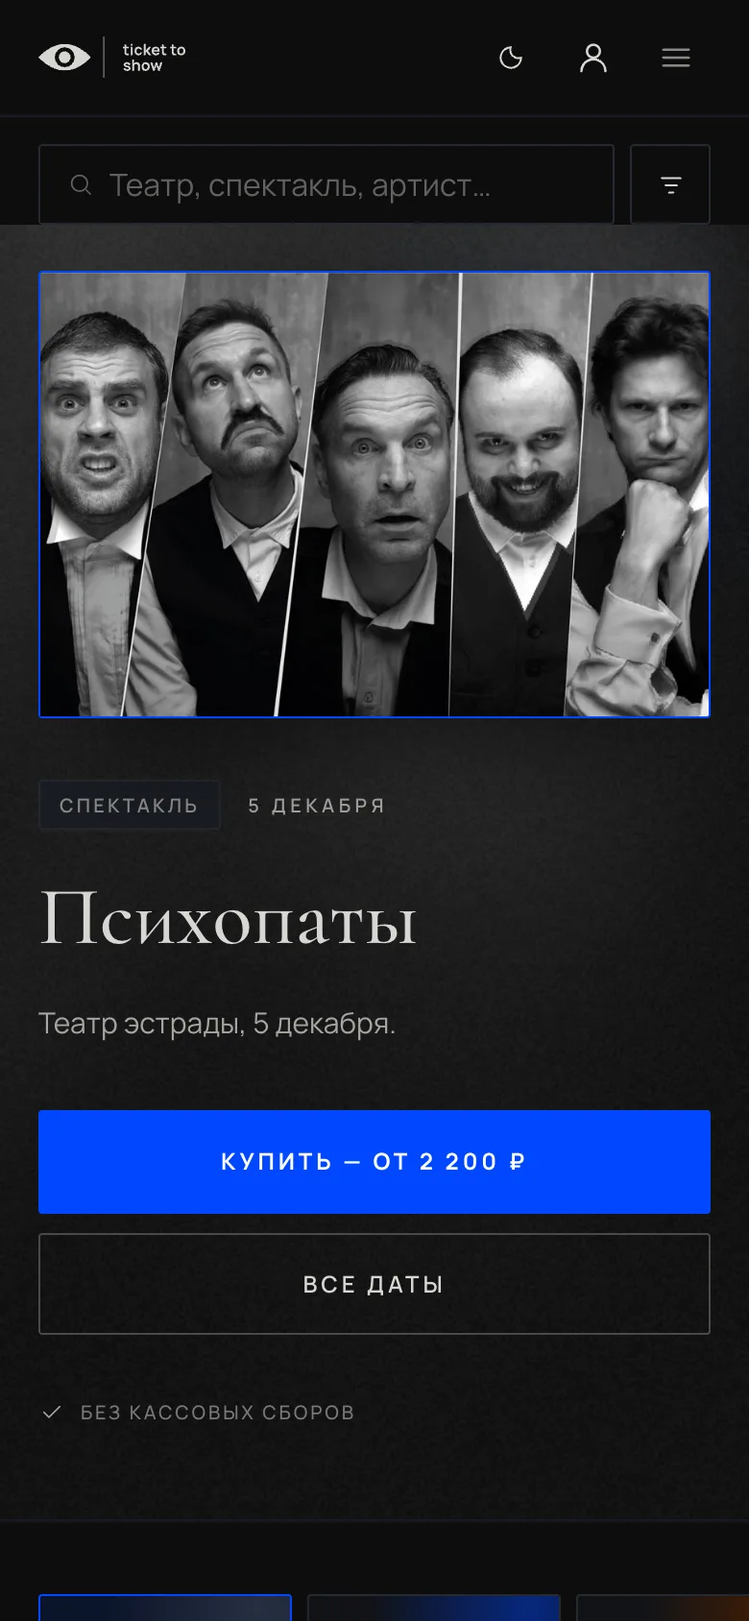
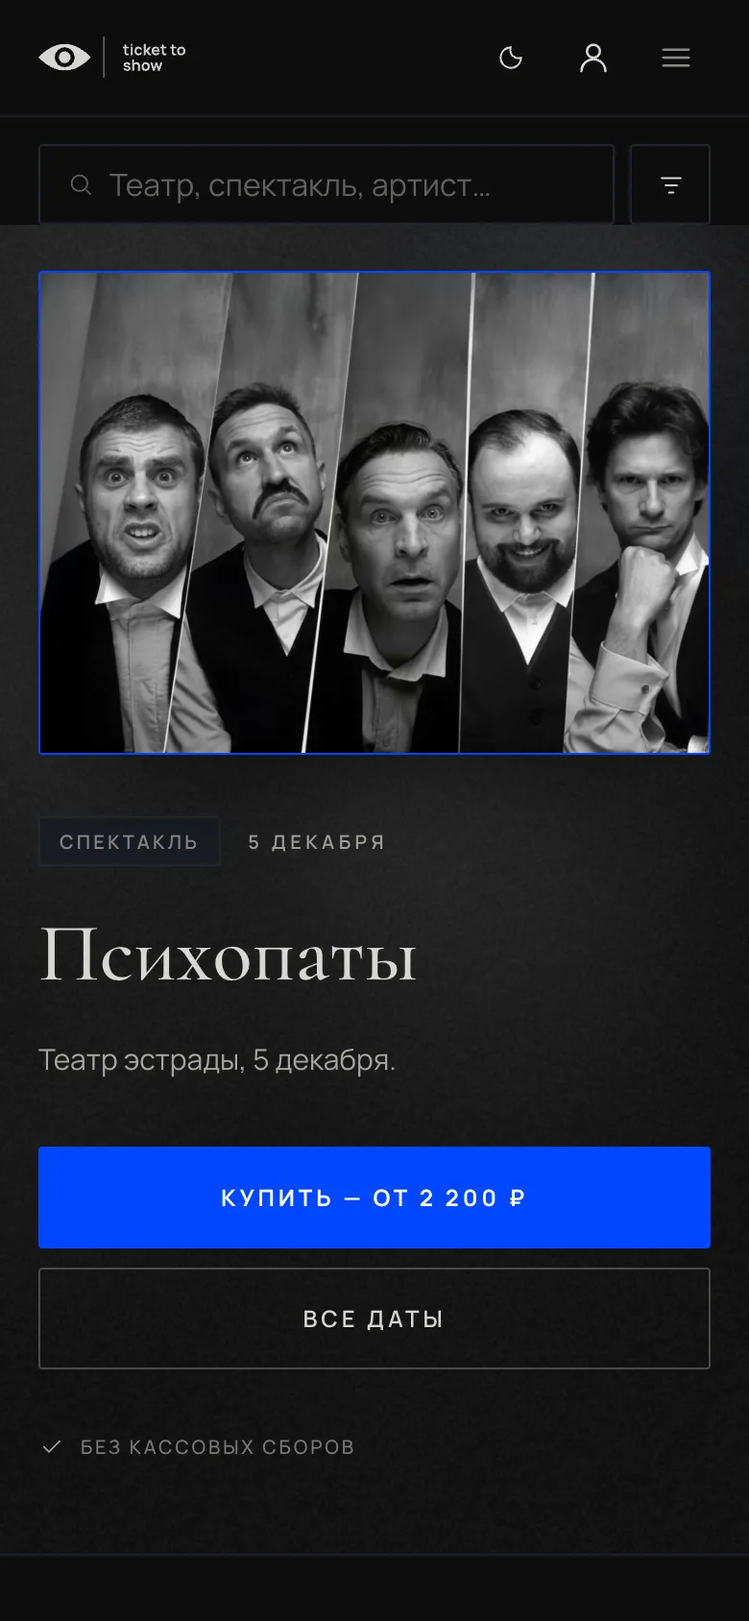
feat(site): home poster is the full Psychopaths photo; plain genre tiles variant with "All ↓"; venues keep only C and D
- Home hero uses the supplied 1600×1152 Psychopaths frame (no crop vars), poster and intro deck take its 25:18 ratio
- New home variant D "Без подписей": four genre tiles with name and arrow, light-grey "Все ↓" at the end
- Venues demo: list variants A and B removed, C and D remain
- All home, intro, venue phone and iOS input-zoom shots re-taken with the new photo; stand-fixes P1, P2, P4, Р4 texts updated

diff --git a/site/handoff/stand-fixes/index.html b/site/handoff/stand-fixes/index.html
@@ -292,7 +292,7 @@
         <tr><td class="sid"><a href="#r1">Р1</a></td><td>Главная</td><td class="sw">Календарь</td><td>дни без событий не выбираются, неделя листается свайпом, кнопка месяца открывает весь месяц</td><td><span class="st st-ok">Макет готов</span></td></tr>
         <tr><td class="sid"><a href="#r2">Р2</a></td><td>Выбор мест</td><td class="sw">Цвета цен и фильтр<span class="new">New</span></td><td>балкон розово-малиновый вместо зелёного; фильтр по цене; большой зал — семьи цветов (выбраны), легенда — три варианта на выбор</td><td><span class="st st-pick">На выбор</span></td></tr>
         <tr><td class="sid"><a href="#r3">Р3</a></td><td>Главная · десктоп</td><td class="sw">Плитки категорий</td><td>цвет виден всегда; подъём плитки или движение стрелки</td><td><span class="st st-pick">На выбор</span></td></tr>
-        <tr><td class="sid"><a href="#r4">Р4</a></td><td>Площадки</td><td class="sw">Список площадок</td><td>крупные плитки и фильтр по типу; запасные — список, группы, список с картой</td><td><span class="st st-pick">На выбор</span></td></tr>
+        <tr><td class="sid"><a href="#r4">Р4</a></td><td>Площадки</td><td class="sw">Список площадок</td><td>крупные плитки и фильтр по типу; запасной — список с картой</td><td><span class="st st-pick">На выбор</span></td></tr>
         <tr><td class="sid"><a href="#r7">Р5</a></td><td>Событие</td><td class="sw">Афиша события</td><td>во всю ширину и складывается в миниатюру при прокрутке (D); запасной — A</td><td><span class="st st-pick">На выбор</span></td></tr>
         <tr><td class="sid"><a href="#r8">Р8</a></td><td>Карточка афиши · везде</td><td class="sw">Ценз вместо города<span class="new">New</span></td><td>строка над названием — «Спектакль · 16+», ценз тише жанра; города на карточке нет</td><td><span class="st st-ok">Макет готов</span></td></tr>
         <tr class="grp"><td colspan="5">Низкий приоритет</td></tr>
@@ -300,7 +300,7 @@
         <tr><td class="sid"><a href="#r6">Р7</a></td><td>Шапка</td><td class="sw">Отзывы</td><td>отзывы на сайте вместо перехода в Яндекс Карты</td><td><span class="st st-low">Низкий</span></td></tr>
         <tr class="grp"><td colspan="5">Предложение</td></tr>
         <tr><td class="sid"><a href="#p1">П1</a></td><td>Главная</td><td class="sw">Новая главная и заставка</td><td>заставка-прелоадер с колодой афиш, новый первый экран, календарь</td><td><span class="st st-pick">Предложение</span></td></tr>
-        <tr><td class="sid"><a href="#p2">П2</a></td><td>Главная</td><td class="sw">Категории и первый экран<span class="new">New</span></td><td>чипы, пять плиток или первый экран на всю высоту с плитками после него</td><td><span class="st st-pick">На выбор</span></td></tr>
+        <tr><td class="sid"><a href="#p2">П2</a></td><td>Главная</td><td class="sw">Категории и первый экран<span class="new">New</span></td><td>чипы, пять плиток, четыре плитки без подписей или первый экран на всю высоту с плитками после него</td><td><span class="st st-pick">На выбор</span></td></tr>
         <tr><td class="sid"><a href="#p3">П3</a></td><td>Карточка афиши</td><td class="sw">«В избранное»<span class="new">New</span></td><td>сердечко на обложке — сохранить событие прямо из афиши</td><td><span class="st st-pick">На выбор</span></td></tr>
         <tr><td class="sid"><a href="#p4">П4</a></td><td>Главная · телефон</td><td class="sw">Афиша на первом экране<span class="new">New</span></td><td>афиша целиком, карточкой над заголовком, а не фоном под текстом — видна в обеих темах</td><td><span class="st st-ok">Макет готов</span></td></tr>
       </table>
@@ -547,7 +547,7 @@
     <article class="chg" id="r4">
       <div class="chg-h"><div class="chg-id">Р4</div><div class="chg-t"><h3>Площадки: список без перегруза</h3><div class="where">Площадки — список · демо <code>site/venues-variants-demo.html</code></div></div><span class="st st-pick">На выбор</span></div>
       <div class="live"><a href="../../venues-variants-demo.html">Живой макет ↗</a><a class="gh" href="https://github.com/hitch-npc/tts-design-system/issues/9">Обсудить и проголосовать · #9 ↗</a></div>
-      <p class="note">Четыре варианта на одних данных: 12 площадок из карусели прода, как в утверждённом стенде 21 октября. D — самый простой: крупные плитки и одна строка фильтра по типу. В A–C есть ещё поиск по названию и адресу.</p>
+      <p class="note">Два варианта на одних данных: 12 площадок из карусели прода, как в утверждённом стенде 21 октября. D — самый простой: крупные плитки и одна строка фильтра по типу. В C есть ещё поиск по названию и адресу и карта.</p>
       <div class="shots wide">
         <div class="col"><span class="lbl lbl-new">D · Крупные плитки · наведение на первую</span><figure class="shot"><img src="img/ven-d-desk.webp" width="1100" height="773" alt="Площадки крупными плитками по три в ряд: логотип, название, адрес, число событий; над сеткой чипы типов" loading="lazy"></figure></div>
       </div>
@@ -560,19 +560,14 @@
       <table class="spec">
         <tr><th>Что</th><th>Сейчас</th><th>Предложение</th></tr>
         <tr><td class="p">D · Крупные плитки</td><td class="o" data-h="Сейчас">сетка плиток, много деталей</td><td class="n" data-h="Предложение">по три плитки в ряд, на телефоне — одна; в плитке только логотип, название, адрес и «N событий»; тип не пишется — он в фильтре. Наведение: движение — как на стенде площадок (21.10): блоб растёт из 85 % до 100 % и проявляется за 320 мс <code>cubic-bezier(.4,0,.2,1)</code>, стрелка <code>--n100</code> сдвигается на 2 px и увеличивается в 1,25 за 200 мс, рамка <code>--n600</code> за 120 мс. Вид — мягче: овал снизу плитки, размытие 40 px, прозрачность 0,7. Площадки без анонсов — в конце, название серым</td></tr>
-        <tr><td class="p">Поиск · A–C</td><td class="o" data-h="Сейчас">нет</td><td class="n" data-h="Предложение">«Найти площадку или адрес»; на телефоне текст 16 px, без увеличения страницы (<a href="#b4">Б4</a>)</td></tr>
+        <tr><td class="p">Поиск · C</td><td class="o" data-h="Сейчас">нет</td><td class="n" data-h="Предложение">«Найти площадку или адрес»; на телефоне текст 16 px, без увеличения страницы (<a href="#b4">Б4</a>)</td></tr>
         <tr><td class="p">Фильтр по типу</td><td class="o" data-h="Сейчас">нет</td><td class="n" data-h="Предложение">одна строка чипов «Все 12», «Театры 7», «Концертные залы 5»; на телефоне листается свайпом</td></tr>
-        <tr><td class="p">A · Компактный список</td><td class="o" data-h="Сейчас">сетка крупных плиток</td><td class="n" data-h="Предложение">одна строка на площадку: логотип, название, тип и адрес, справа число событий; сначала площадки с событиями, без анонсов свёрнуты в «Ещё 2 площадки без анонсов»</td></tr>
-        <tr><td class="p">B · Группы по типу</td><td class="o" data-h="Сейчас">—</td><td class="n" data-h="Предложение">заголовки «Театры» и «Концертные залы», внутри — компактные карточки по три в ряд</td></tr>
         <tr><td class="p">C · Список и карта</td><td class="o" data-h="Сейчас">—</td><td class="n" data-h="Предложение">список слева, Яндекс Карта с метками справа; наведение на строку подсвечивает метку; на телефоне — переключатель «Список / Карта». В демо вместо карты заглушка</td></tr>
       </table>
       <div class="shots">
-        <div class="col"><span class="lbl lbl-new">A · Компактный список</span><figure class="shot"><img src="img/ven-a-desk.webp" width="1100" height="653" alt="Список площадок строками: поиск, чипы типов, название, адрес, число событий справа" loading="lazy"></figure></div>
-        <div class="col"><span class="lbl lbl-new">B · Группы по типу</span><figure class="shot"><img src="img/ven-b-desk.webp" width="1100" height="730" alt="Площадки сгруппированы: Театры и Концертные залы — карточки по три в ряд" loading="lazy"></figure></div>
         <div class="col"><span class="lbl lbl-new">C · Список и карта</span><figure class="shot"><img src="img/ven-c-desk.webp" width="1100" height="653" alt="Список площадок слева, место для карты справа; строка под курсором подсвечена" loading="lazy"></figure></div>
       </div>
       <div class="shots phones">
-        <div class="col"><span class="lbl lbl-new">A · телефон</span><figure class="shot"><img src="img/ven-a-phone.webp" width="520" height="885" alt="Компактный список площадок на телефоне" loading="lazy"></figure></div>
         <div class="col"><span class="lbl lbl-new">C · телефон, карта</span><figure class="shot"><img src="img/ven-c-phone.webp" width="520" height="885" alt="Переключатель «Список / Карта» на телефоне, открыта карта" loading="lazy"></figure></div>
       </div>
     </article>
@@ -792,10 +787,10 @@
         <tr><td class="p">Когда играет</td><td class="o" data-h="Сейчас">—</td><td class="n" data-h="Предложение">первый визит — длинная версия, около 5 с; новый визит — около 3 с, идёт за реальной загрузкой; повторные загрузки в той же вкладке — без заставки. После заставки страница стоит в самом верху</td></tr>
         <tr><td class="p">Первый экран</td><td class="o" data-h="Сейчас">—</td><td class="n" data-h="Предложение">постер события, название, площадка и дата, «Купить — от … ₽» и «Все даты»; ниже — чипы категорий и календарь. Постер — в пропорциях афиши (чаще горизонтальной), подробно — <a href="#p4">П4</a></td></tr>
         <tr><td class="p">Для фронтенда</td><td class="o" data-h="Сейчас">—</td><td class="n" data-h="Предложение">заставка — один файл <code>tts-intro.js</code> без зависимостей, запуск <code>TTSIntro.start({…})</code>; проверка — <code>?intro=0</code>, <code>?intro=long</code>, <code>?intro=short</code></td></tr>
-        <tr><td class="p">Кадры колоды</td><td class="o" data-h="Сейчас">—</td><td class="n" data-h="Предложение">в макете — нарисованные кадры сцены, не афиши; настоящие афиши (от 900 px по высоте) перечисляются в <code>INTRO_IMAGES</code>. Верхняя карточка по пути к постеру принимает его пропорции — горизонтальная афиша не обрезается до вертикали</td></tr>
+        <tr><td class="p">Кадры колоды</td><td class="o" data-h="Сейчас">—</td><td class="n" data-h="Предложение">настоящие афиши (от 900 px по высоте) перечисляются в <code>INTRO_IMAGES</code>, последняя ложится сверху — в макете это «Психопаты», афиша первого экрана; нарисованные кадры сцены — запасные, если афиша не загрузилась. Верхняя карточка по пути к постеру принимает его пропорции — горизонтальная афиша не обрезается до вертикали</td></tr>
       </table>
       <div class="shots">
-        <div class="col"><span class="lbl lbl-new">Заставка · колода и надпись</span><figure class="shot"><img src="img/intro-deck.webp" width="1200" height="750" alt="Заставка: крупная надпись «Ticket to Show — билеты без кассовых сборов» поверх колоды кадров" loading="lazy"></figure></div>
+        <div class="col"><span class="lbl lbl-new">Заставка · колода и надпись</span><figure class="shot"><img src="img/intro-deck.webp" width="1200" height="750" alt="Заставка: крупная надпись «Ticket to Show — билеты без кассовых сборов» поверх колоды афиш, счётчик загрузки 088" loading="lazy"></figure></div>
         <div class="col"><span class="lbl lbl-new">Заставка · верхняя афиша</span><figure class="shot"><img src="img/intro-top.webp" width="1200" height="750" alt="Заставка: верхняя афиша колоды в кобальтовой рамке, внизу счётчик загрузки и «К билетам»" loading="lazy"></figure></div>
         <div class="col"><span class="lbl lbl-new">Первый экран после заставки</span><figure class="shot"><img src="img/intro-hero.webp" width="1200" height="750" alt="Первый экран: «Психопаты», кнопки «Купить» и «Все даты», горизонтальная афиша справа, ниже плитки категорий" loading="lazy"></figure></div>
       </div>
@@ -806,13 +801,14 @@
 
     <article class="chg" id="p2">
       <div class="chg-h"><div class="chg-id">П2</div><div class="chg-t"><h3>Главная: категории и первый экран<span class="new">New</span></h3><div class="where">Главная — десктоп и телефон · демо <code>site/home-new-tiles.html</code></div></div><span class="st st-pick">На выбор</span></div>
-      <div class="live"><a href="../../home-new-tiles.html?v=old&amp;intro=0">A · Было ↗</a><a href="../../home-new-tiles.html?v=tiles&amp;intro=0">B · Плитки ↗</a><a href="../../home-new-tiles.html?v=full&amp;intro=0">C · Полный экран ↗</a><a class="gh" href="https://github.com/hitch-npc/tts-design-system/issues/14">Обсудить и проголосовать · #14 ↗</a></div>
-      <p class="note">Три варианта на одной странице, переключаются кнопками в углу. Плитки — те же, что в <a href="#r3">Р3</a>: цвет жанра из системы, «Детям» — зелёная. Заставка работает во всех трёх: афиша перелетает в постер первого экрана.</p>
+      <div class="live"><a href="../../home-new-tiles.html?v=old&amp;intro=0">A · Было ↗</a><a href="../../home-new-tiles.html?v=tiles&amp;intro=0">B · Плитки ↗</a><a href="../../home-new-tiles.html?v=full&amp;intro=0">C · Полный экран ↗</a><a href="../../home-new-tiles.html?v=names&amp;intro=0">D · Без подписей ↗</a><a class="gh" href="https://github.com/hitch-npc/tts-design-system/issues/14">Обсудить и проголосовать · #14 ↗</a></div>
+      <p class="note">Четыре варианта на одной странице, переключаются кнопками в углу. Плитки — те же, что в <a href="#r3">Р3</a>: цвет жанра из системы, «Детям» — зелёная. Заставка работает во всех четырёх: афиша перелетает в постер первого экрана.</p>
       <table class="spec">
         <tr><th>Что</th><th>Сейчас</th><th>Предложение</th></tr>
         <tr><td class="p">A · Было</td><td class="o" data-h="Сейчас">чипы категорий под первым экраном</td><td class="n" data-h="Предложение">без изменений: «Все / Спектакли / Концерты / Классика / Детям», дальше календарь</td></tr>
         <tr><td class="p">B · Плитки</td><td class="o" data-h="Сейчас">чипы</td><td class="n" data-h="Предложение">пять крупных плиток вместо чипов: название, описание, число событий, стрелка; выбранная — фон <code>--accent-ghost</code> и рамка <code>--accent</code>. На телефоне листаются свайпом, описание скрыто</td></tr>
         <tr><td class="p">C · Полный экран</td><td class="o" data-h="Сейчас">первый экран обычной высоты</td><td class="n" data-h="Предложение">первый экран на всю высоту окна под шапкой, внизу стрелка «Афиша ↓» (нажатие прокручивает к плиткам). На телефоне и планшете текст и кнопки прижаты к низу, в 40 px над стрелкой, над ними — афиша целиком (<a href="#p4">П4</a>); пустоты между кнопками и стрелкой нет. Плитки — мини-кнопка «Все» с числом и четыре жанра; при первой прокрутке проявляются по очереди, шаг 70 мс. Дальше календарь и афиша. При <code>prefers-reduced-motion</code> — без движения</td></tr>
+        <tr><td class="p">D · Без подписей</td><td class="o" data-h="Сейчас">чипы</td><td class="n" data-h="Предложение">четыре плитки жанров — только название и стрелка, как в <a href="#r3">Р3</a>; высота 80 px, цвет жанра виден всегда. В конце ряда — светло-серая кнопка «Все ↓» (<code>--n300</code>, рамка <code>--n700</code>): снимает выбор жанра, кобальтом не выделяется — выбор показывает плитка жанра. На телефоне — лента со свайпом, «Все» в конце</td></tr>
       </table>
       <div class="shots">
         <div class="col"><span class="lbl lbl-new">A · Было</span><figure class="shot"><img src="img/home-v-old.webp" width="1100" height="688" alt="Под первым экраном — чипы категорий, календарь и афиша" loading="lazy"></figure></div>
@@ -822,8 +818,12 @@
         <div class="col"><span class="lbl lbl-new">C · Полный экран — первый экран</span><figure class="shot"><img src="img/home-v-full.webp" width="1100" height="688" alt="Первый экран на всю высоту окна, внизу стрелка «Афиша»" loading="lazy"></figure></div>
         <div class="col"><span class="lbl lbl-new">C · после первой прокрутки</span><figure class="shot"><img src="img/home-v-full-scroll.webp" width="1100" height="688" alt="Снизу проявились мини-кнопка «Все» и четыре плитки жанров" loading="lazy"></figure></div>
       </div>
+      <div class="shots">
+        <div class="col"><span class="lbl lbl-new">D · Без подписей</span><figure class="shot"><img src="img/home-v-names.webp" width="1100" height="688" alt="Под первым экраном — четыре плитки жанров с названием и стрелкой, в конце светло-серая кнопка «Все» со стрелкой вниз" loading="lazy"></figure></div>
+      </div>
       <div class="shots phones">
         <div class="col"><span class="lbl lbl-new">B · телефон</span><figure class="shot"><img src="img/home-v-tiles-mob.webp" width="390" height="844" alt="Плитки категорий лентой со свайпом на телефоне" loading="lazy"></figure></div>
+        <div class="col"><span class="lbl lbl-new">D · телефон</span><figure class="shot"><img src="img/home-v-names-mob.webp" width="390" height="844" alt="Плитки жанров без подписей лентой со свайпом на телефоне" loading="lazy"></figure></div>
         <div class="col"><span class="lbl lbl-new">C · телефон</span><figure class="shot"><img src="img/home-v-full-mob.webp" width="390" height="844" alt="Первый экран на всю высоту телефона: афиша целиком сверху, текст и кнопки у нижнего края, под ними «Без кассовых сборов» и стрелка «Афиша»" loading="lazy"></figure></div>
         <div class="col"><span class="lbl lbl-new">C · телефон, прокрутка</span><figure class="shot"><img src="img/home-v-full-mob-scroll.webp" width="390" height="844" alt="Мини-кнопка «Все» и плитки жанров после прокрутки на телефоне" loading="lazy"></figure></div>
       </div>
@@ -856,7 +856,7 @@
         <tr><td class="p">Фон</td><td class="o" data-h="Было">то же фото, затемнённое или высветленное</td><td class="n" data-h="Стало">та же афиша, сильно размытая (44 px): свет и цвет кадра без деталей, книзу уходит в цвет страницы. В тёмной теме притемнена, в светлой высветлена — текст читается на любом кадре</td></tr>
         <tr><td class="p">Десктоп</td><td class="o" data-h="Было">постер 3:4</td><td class="n" data-h="Стало">постер в пропорциях афиши; горизонтальный — шире (до 600 px), колонка текста уже</td></tr>
         <tr><td class="p">Заставка</td><td class="o" data-h="Было">верхняя карточка 3:4 летит в постер 3:4</td><td class="n" data-h="Стало">по пути карточка принимает пропорции постера — горизонтальная афиша встаёт на место без скачка</td></tr>
-        <tr><td class="p">Картинка</td><td class="o" data-h="Было">—</td><td class="n" data-h="Стало">нужен кадр без полей: у «Психопатов» на сайте фото с бумагой по краям, в макете поля срезаны кадрированием (<code>--poster-pos</code>, <code>--poster-zoom</code>). Ширина — от 1200 px, иначе на телефоне кадр мылится</td></tr>
+        <tr><td class="p">Картинка</td><td class="o" data-h="Было">—</td><td class="n" data-h="Стало">кадр без полей, от 1600 px по ширине — как <code>site/home-new/psikhopaty.webp</code> (1600 × 1152). Пропорции афиши задаёт <code>--poster-ar</code>, кадрировать не нужно; афиша с полями или мельче — мылится на телефоне и на десктопе</td></tr>
       </table>
       <div class="shots phones">
         <div class="col"><span class="lbl lbl-before">Было</span><figure class="shot"><img src="img/hero-light-before.webp" width="390" height="844" alt="Светлая тема: афиша высветлена фоном под текстом и почти не видна" loading="lazy"></figure></div>

diff --git a/site/venues-variants-demo.html b/site/venues-variants-demo.html
@@ -54,7 +54,7 @@
   .none { font-size:12px; color:var(--n500); }
   .chev { color:var(--n500); font-size:18px; transition:transform 320ms var(--ease), color 320ms var(--ease); }
 
-  /* A · компактный список */
+  /* строки списка — вариант C */
   .rows { display:flex; flex-direction:column; border-top:1px solid var(--n800); }
   .row { display:grid; grid-template-columns:40px minmax(0,1fr) auto 16px; gap:16px; align-items:center; padding:14px 8px; border-bottom:1px solid var(--n800); text-decoration:none; color:inherit; cursor:pointer; transition:background 320ms var(--ease); }
   .row:hover { background:var(--n950); }
@@ -62,19 +62,7 @@
   .row .right { text-align:right; }
   .row.is-hl { background:var(--accent-ghost); }
   @media (max-width:760px) { .row { grid-template-columns:minmax(0,1fr) auto; gap:10px; padding:12px 0; } .row .mono, .row .chev { display:none; } .name { font-size:17px; } }
-  .more { appearance:none; align-self:flex-start; background:none; border:0; padding:4px 0; color:var(--n300); font-size:11px; font-weight:500; letter-spacing:.14em; text-transform:uppercase; text-decoration:underline; text-decoration-color:var(--accent); text-underline-offset:3px; cursor:pointer; }
 
-  /* B · группы по типу */
-  .groups { display:flex; flex-direction:column; gap:32px; }
-  .group-h { display:flex; align-items:baseline; gap:10px; padding-bottom:10px; border-bottom:1px solid var(--n800); margin-bottom:14px; }
-  .group-h h2 { margin:0; font-family:var(--f-head); font-weight:400; font-size:19px; }
-  .cards { display:grid; grid-template-columns:repeat(3, minmax(0,1fr)); gap:12px; }
-  @media (max-width:1000px) { .cards { grid-template-columns:repeat(2, minmax(0,1fr)); } }
-  @media (max-width:560px) { .cards { grid-template-columns:1fr; gap:8px; } }
-  .card { display:flex; flex-direction:column; gap:6px; padding:16px; background:var(--n950); border:1px solid var(--n800); border-radius:2px; min-width:0; cursor:pointer; text-decoration:none; color:inherit; transition:border-color 320ms var(--ease); }
-  .card:hover { border-color:var(--n600); }
-  .card .foot { display:flex; justify-content:space-between; align-items:baseline; gap:8px; margin-top:6px; padding-top:10px; border-top:1px solid var(--n900); }
-  .card .name { font-size:17px; }
 
   /* C · список и карта */
   .split { display:grid; grid-template-columns:minmax(0,1fr) minmax(0,1.15fr); gap:24px; align-items:start; }
@@ -152,9 +140,9 @@ const esc=s=>s.replace(/[&<>"]/g,c=>({'&':'&amp;','<':'&lt;','>':'&gt;','"':'&qu
 const ICON_S='<svg viewBox="0 0 16 16" fill="none" stroke="currentColor" stroke-width="1.5" stroke-linecap="round" aria-hidden="true"><circle cx="7" cy="7" r="5"/><path d="M11 11l3.5 3.5"/></svg>';
 const ICON_PIN='<svg viewBox="0 0 24 24" fill="none" stroke="currentColor" stroke-width="1.5" stroke-linecap="round" stroke-linejoin="round" aria-hidden="true"><path d="M12 21s-7-6.2-7-11.5A7 7 0 0 1 19 9.5C19 14.8 12 21 12 21z"/><circle cx="12" cy="9.5" r="2.5"/></svg>';
 
-const VARS={a:'A · Компактный список',b:'B · Группы по типу',c:'C · Список и карта',d:'D · Крупные плитки'};
+const VARS={c:'C · Список и карта',d:'D · Крупные плитки'};
 const qs=new URLSearchParams(location.search);
-const st={v:VARS[qs.get('v')]?qs.get('v'):'d', type:'Все', q:qs.get('q')||'', more:qs.get('more')==='1', m:qs.get('m')==='map'?'map':'list', hl:qs.get('hl')!==null?+qs.get('hl'):-1, type0:0};
+const st={v:VARS[qs.get('v')]?qs.get('v'):'d', type:'Все', q:qs.get('q')||'', m:qs.get('m')==='map'?'map':'list', hl:qs.get('hl')!==null?+qs.get('hl'):-1, type0:0};
 if(qs.get('type')) st.type=qs.get('type');
 
 function match(v){
@@ -183,22 +171,6 @@ function head(){
   const total=V.reduce((s,v)=>s+v.c,0);
   return `<div class="head"><h1>Площадки</h1><span class="cap">${V.length} площадок · ${ev(total)}</span></div>`;
 }
-function viewA(){
-  const list=sorted().filter(match);
-  const withEv=list.filter(v=>v.c), noEv=list.filter(v=>!v.c);
-  const searching=st.q.trim()!=='';
-  const shown=searching||st.more?list:withEv;
-  const body=list.length?`<div class="rows">${shown.map(row).join('')}</div>${!searching&&noEv.length?`<button class="more" type="button" id="more">${st.more?'Скрыть площадки без анонсов':`Ещё ${noEv.length} ${pl(noEv.length,'площадка','площадки','площадок')} без анонсов`}</button>`:''}`:`<div class="empty">Ничего не нашлось. Попробуйте название площадки или улицу.</div>`;
-  return head()+tools()+body;
-}
-function viewB(){
-  const groups=GROUPS.filter(([,t])=>st.type==='Все'||st.type===t).map(([lab,t])=>{
-    const vs=sorted().filter(v=>v.t===t&&match(v));
-    if(!vs.length) return '';
-    return `<section><div class="group-h"><h2>${lab}</h2><span class="cap">${vs.length}</span></div><div class="cards">${vs.map(v=>`<a class="card" href="#"><span class="cap">${v.t}</span><span class="name">${v.n}</span><span class="meta">${v.a}</span><span class="foot">${v.c?`<span class="cnt">${ev(v.c)}</span>`:'<span class="none">Шоу ещё не анонсированы</span>'}</span></a>`).join('')}</div></section>`;
-  }).join('');
-  return head()+tools()+(groups?`<div class="groups">${groups}</div>`:`<div class="empty">Ничего не нашлось. Попробуйте название площадки или улицу.</div>`);
-}
 function viewC(){
   const list=sorted().filter(match);
   const seg=`<div class="seg" role="group" aria-label="Вид"><button type="button" data-m="list" aria-pressed="${st.m==='list'}">Список</button><button type="button" data-m="map" aria-pressed="${st.m==='map'}">Карта</button></div>`;
@@ -212,17 +184,16 @@ function viewD(){
 }
 function render(){
   bar.innerHTML='<span class="cap">Вариант</span>'+Object.entries(VARS).map(([k,l])=>`<button class="chip" type="button" data-v="${k}" aria-pressed="${st.v===k}">${l}</button>`).join('');
-  app.innerHTML=st.v==='a'?viewA():st.v==='b'?viewB():st.v==='c'?viewC():viewD();
+  app.innerHTML=st.v==='c'?viewC():viewD();
 }
 document.addEventListener('click',e=>{ if(e.target.closest('.search-clear')){ e.preventDefault(); st.q=''; render(); document.getElementById('q').focus(); return; } });
 document.addEventListener('click',e=>{
-  const t=e.target.closest('[data-v],[data-type],[data-m],#more,a');
+  const t=e.target.closest('[data-v],[data-type],[data-m],a');
   if(!t) return;
   if(t.tagName==='A'){e.preventDefault();return;}
   if(t.dataset.v){st.v=t.dataset.v;}
   else if(t.dataset.type){st.type=t.dataset.type;}
   else if(t.dataset.m){st.m=t.dataset.m;}
-  else if(t.id==='more'){st.more=!st.more;}
   render();
 });
 document.addEventListener('input',e=>{ if(e.target.id!=='q') return; st.q=e.target.value; const pos=e.target.selectionStart; render(); const q=document.getElementById('q'); q.focus(); q.setSelectionRange(pos,pos); });

diff --git a/site/home-new.html b/site/home-new.html
@@ -82,9 +82,6 @@ html.poster-in .hero2-poster, .no-js .hero2-poster { opacity: 1; }
 .hero2-poster:hover img { transform: scale(calc(var(--poster-zoom, 1.04) + .05)); }
 /* горизонтальная афиша: постер шире, колонка текста уже */
 @media (min-width: 901px) { .hero2--wide .hero2-in { grid-template-columns: 1fr 1.15fr; } }
-/* заставка: у афиши «Психопатов» по краям картинки бумага — верхняя карточка колоды (она перелетает в постер)
-   кадрируется так же, как постер первого экрана */
-.tts-intro .ti-card:last-child img { object-position: 52% 50%; transform: scale(1.045); }
 .hp-cap { position: absolute; left: 0; right: 0; bottom: 0; display: flex; flex-direction: column; gap: 8px; padding: 64px 22px 22px; background: linear-gradient(180deg, transparent, color-mix(in srgb, var(--ink) 88%, transparent)); opacity: 0; transform: translateY(12px); transition: opacity 700ms var(--ease-out) 200ms, transform 900ms var(--ease-in) 200ms; }
 html.poster-in .hp-cap, .no-js .hp-cap { opacity: 1; transform: none; }
 .hp-date { font-family: var(--f-num); font-size: 18px; color: var(--n100); }
@@ -294,7 +291,7 @@ html.page-in .hw > span, .no-js .hw > span { transform: none; transition: transf
       MS + '85a/fndnxz2eojab1nki8b3ikufmvaywsadl/lavr2_.jpg',
       MS + '356/kqkkzqpzk8rh4oaifiy0lrqlesvz3f8f/frida_.jpg',
       MS + '40f/xk8jj9k4o0ozlw47j22ys3tdaf4g13et/einstein_i_margarita_.jpg',
-      MS + 'df2/sim93ywv2d0mgp0tg7bjhdrbuvn7oq7v/psikhopaty__.jpg'
+      'home-new/psikhopaty.webp'
     ],
     fallbacks: ['home-new/stage-bokeh.webp', 'home-new/stage-rays.webp', 'home-new/stage-spotlight.webp', 'home-new/stage-curtain.webp'],
     poster: '.hero2-poster',
@@ -350,9 +347,9 @@ html.page-in .hw > span, .no-js .hw > span { transform: none; transition: transf
 
 <main>
 <!-- ════════ hero ════════ -->
-<!-- Психопаты: на картинке сайта фото по центру, по краям — мятая бумага; кадр 3:2, сдвиг к центру фото и приближение 1.045 оставляют только фото -->
-<section class="hero2 hero2--wide" aria-labelledby="heroT" style="--poster-ar: 3 / 2; --poster-pos: 52% 50%; --poster-zoom: 1.045; --poster-w: 600px">
-  <div class="hero2-bg" aria-hidden="true"><span class="hero2-b1"></span><span class="hero2-b2"></span><img class="hero2-cover" src="https://moscowshow.com/upload/iblock/df2/sim93ywv2d0mgp0tg7bjhdrbuvn7oq7v/psikhopaty__.jpg" alt="" decoding="async" referrerpolicy="no-referrer" onerror="if(!this.dataset.fb){this.dataset.fb=1;this.src='home-new/stage-curtain.webp'}"><i class="hero2-shade"></i><i class="hero2-beam"></i><i class="hero2-grain grain-tex"></i></div>
+<!-- Психопаты — горизонтальная афиша 25:18: постер на десктопе и карточка на телефоне берут её пропорции -->
+<section class="hero2 hero2--wide" aria-labelledby="heroT" style="--poster-ar: 25 / 18; --poster-w: 600px">
+  <div class="hero2-bg" aria-hidden="true"><span class="hero2-b1"></span><span class="hero2-b2"></span><img class="hero2-cover" src="home-new/psikhopaty.webp" alt="" decoding="async" referrerpolicy="no-referrer" onerror="if(!this.dataset.fb){this.dataset.fb=1;this.src='home-new/stage-curtain.webp'}"><i class="hero2-shade"></i><i class="hero2-beam"></i><i class="hero2-grain grain-tex"></i></div>
   <div class="hero2-in">
     <div>
       <div class="hero2-meta rv" style="--i:0"><span class="tag tag-default">Спектакль</span><span class="t-eyebrow">5 декабря</span></div>
@@ -367,7 +364,7 @@ html.page-in .hw > span, .no-js .hw > span { transform: none; transition: transf
       </div>
     </div>
     <a class="hero2-poster" href="#" aria-label="Психопаты, 5 декабря, Театр эстрады">
-      <img src="https://moscowshow.com/upload/iblock/df2/sim93ywv2d0mgp0tg7bjhdrbuvn7oq7v/psikhopaty__.jpg" alt="" decoding="async" referrerpolicy="no-referrer" onerror="if(!this.dataset.fb){this.dataset.fb=1;this.src='home-new/stage-curtain.webp'}">
+      <img src="home-new/psikhopaty.webp" alt="" decoding="async" referrerpolicy="no-referrer" onerror="if(!this.dataset.fb){this.dataset.fb=1;this.src='home-new/stage-curtain.webp'}">
     </a>
   </div>
 </section>

diff --git a/site/handoff/ios-input-zoom.html b/site/handoff/ios-input-zoom.html
@@ -86,7 +86,7 @@ td:first-child { color: var(--n100); }
     <div class="ba">
       <figure class="bad">
         <span class="st">До · фокус в поле 12 px</span>
-        <img src="ios-input-zoom/before-normal.webp" alt="Главная на телефоне: в строке поиска набрано «Дра», текст в поле мелкий" width="780" height="1688" loading="lazy">
+        <img src="ios-input-zoom/before-normal.webp" alt="Главная на телефоне: в строке поиска набрано «Пси», текст в поле мелкий" width="780" height="1688" loading="lazy">
         <figcaption>Так поле выглядит до увеличения: текст 12 px.</figcaption>
       </figure>
       <figure class="bad">
@@ -96,7 +96,7 @@ td:first-child { color: var(--n100); }
       </figure>
       <figure class="good">
         <span class="st">После · поле 16 px</span>
-        <img src="ios-input-zoom/after.webp" alt="Главная на телефоне: в строке поиска набрано «Дра» текстом 16 px, вся шапка на экране" width="780" height="1688" loading="lazy">
+        <img src="ios-input-zoom/after.webp" alt="Главная на телефоне: в строке поиска набрано «Пси» текстом 16 px, вся шапка на экране" width="780" height="1688" loading="lazy">
         <figcaption>Масштаб не меняется: вся шапка на месте, после поиска ничего уменьшать не нужно.</figcaption>
       </figure>
     </div>

diff --git a/site/home-new/README.md b/site/home-new/README.md
@@ -3,7 +3,10 @@
 Шесть атмосферных кадров сцены (3:4, 600×800, webp): занавес, прожектор, боке, лучи, скрещённые прожекторы, блики.
 Нарисованы для макета, это не афиши событий.
 
-Как заменить на настоящие афиши: положить файлы сюда (3:4, от 900 px по высоте) и перечислить их в `INTRO_IMAGES`
+`psikhopaty.webp` — афиша спектакля «Психопаты» (1600×1152, 25:18): постер первого экрана и верхняя карточка колоды.
+Горизонтальная — на ней видно, как первый экран держит такие афиши: постер берёт пропорции картинки (`--poster-ar` у `.hero2`).
+
+Как заменить на настоящие афиши: положить файлы сюда (от 900 px по высоте; постер первого экрана — от 1600 px по ширине, без полей) и перечислить их в `INTRO_IMAGES`
 в `site/home-new.html`. Последний в списке ложится сверху и перелетает в постер первого экрана, поэтому
 он же стоит в `.hero2-poster img`.
 
